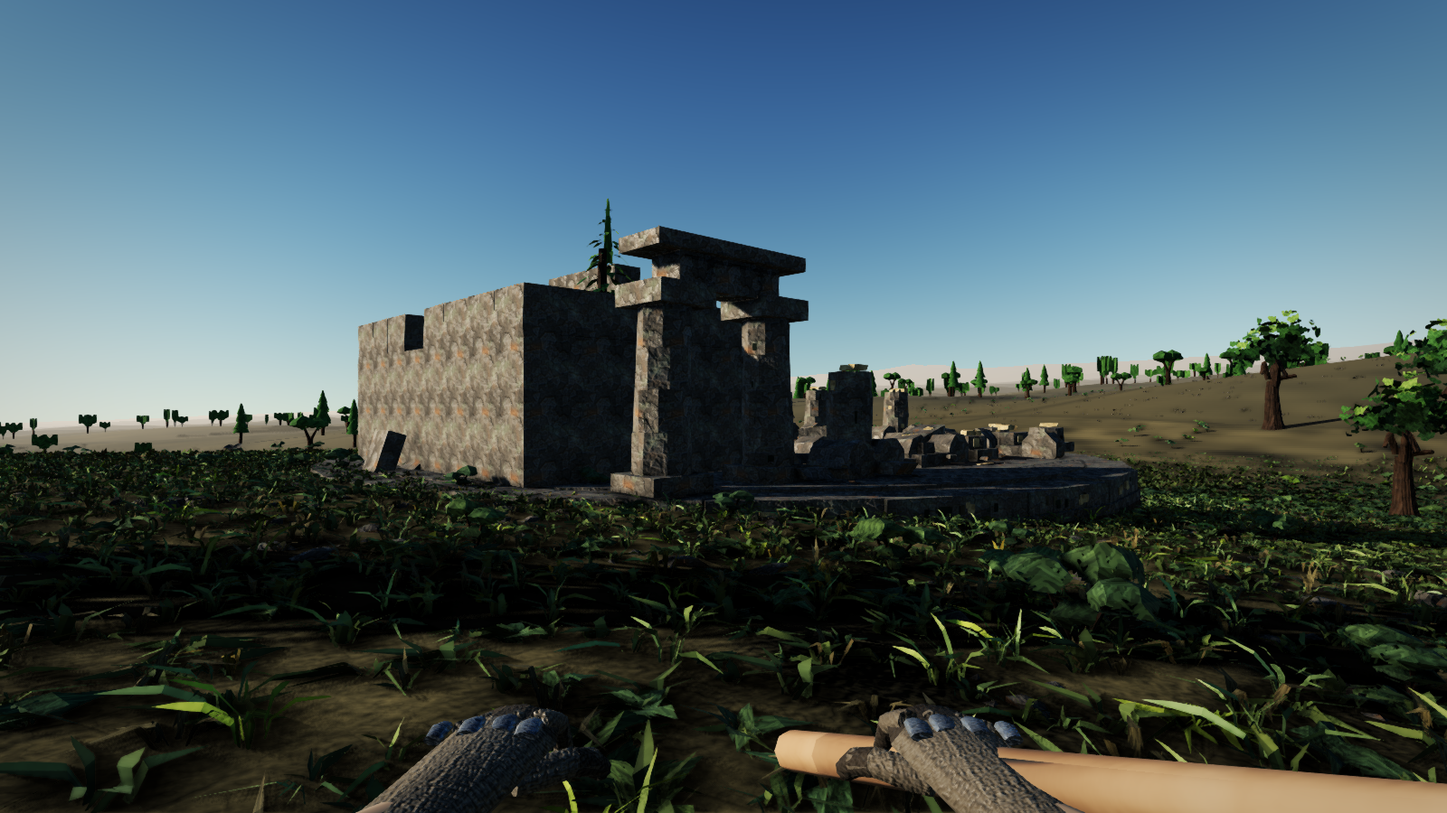
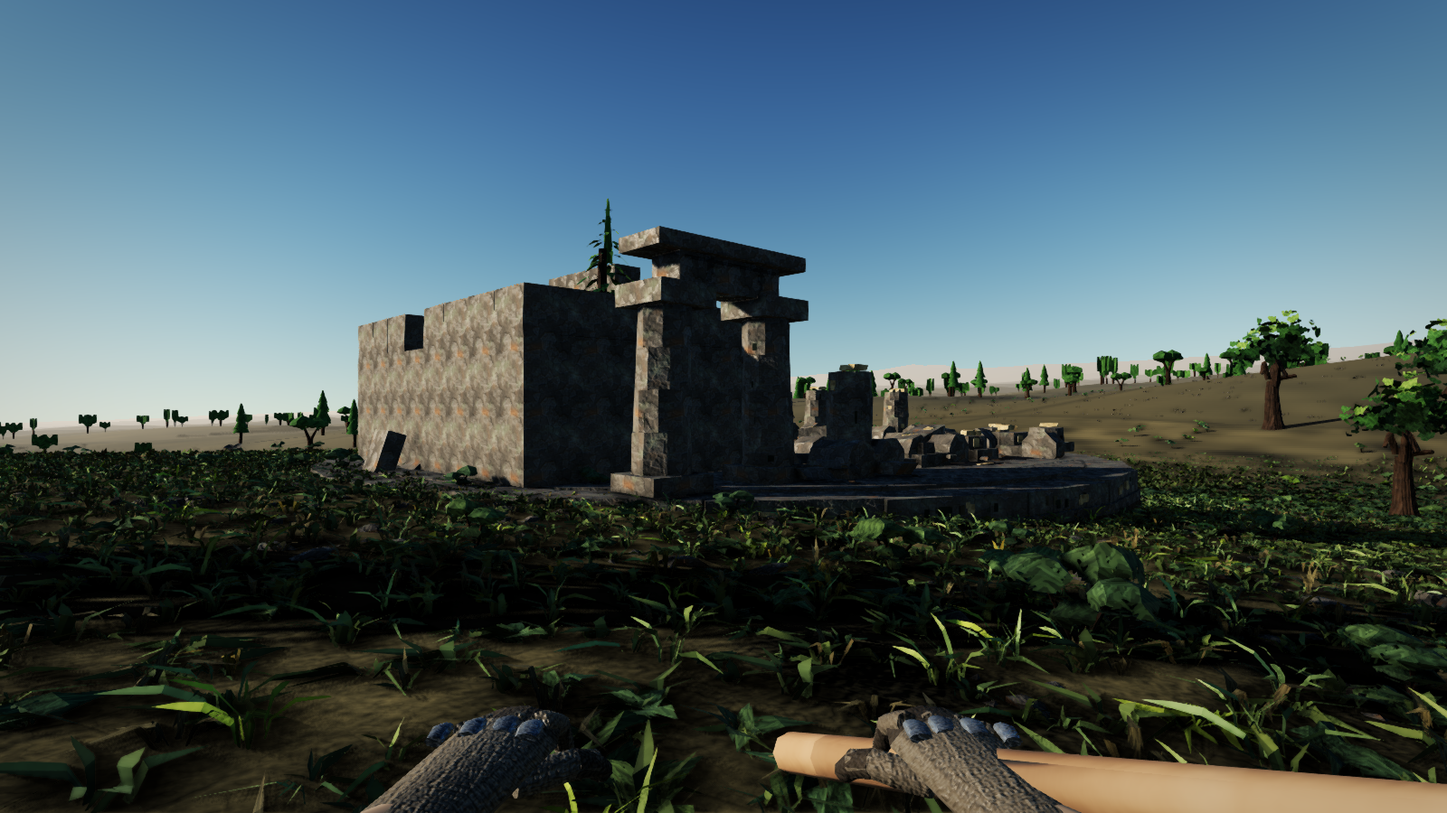
rendering/art: fix RN-1780 per fresh-context verification
Three findings from independent verification, all addressed on the same
branch.

1. REBASE CONFLICT. Branched before RN-1690..1696's launch-pad form pass
landed on main. Rebased onto current origin/main; the merge auto-applied
7 of 8 Rock-to-Masonry renames silently and left 6 NEW Rock/RockDark boxes
the form pass had added (deck control joints, scorch/soot decals, the
control bunker's LOD0 body and LOD1 shadow proxy) un-renamed, plus a
conflict-resolution slip that zeroed lod2_geometry's MeshBuilder. All fixed
by hand; rebuilt launch_pad.glb; check_shadow_lod LOD1 53.85 mm / 2.0x,
18 sockets and col_ nodes byte-identical, pad.js green on real D3D11.

2. THE EMBER WAS INERT, NOT MARGINAL. Root cause, found by isolating
normal/orm and emissive independently: EmberEmissiveState is classified
ROLE_STATUS (its name ends "EmissiveState" on purpose), and MachineFx.ts's
status-chip shader branch ADDS a per-instance colour to
totalEmissiveRadiance rather than reading it, so the standard
emissivemap_fragment multiply landed on a zero base and the emissive map
was doing nothing at any contrast setting. Fixed with a 5-line change to
that one branch (samples the emissive map under USE_EMISSIVEMAP and
multiplies the status term by it; identity for every other status chip in
the game, which carries no emissive map, confirmed unmoved). Re-authored
the map alongside the fix: coarser facets so a coal chunk survives a small
[…]

Changed region(s): [[0.5312, 0.8711, 0.75, 1.0], [0.25, 0.8711, 0.4062, 1.0]]

diff --git a/web/src/render/materials/MachineFx.ts b/web/src/render/materials/MachineFx.ts
@@ -96,6 +96,22 @@ if ( vRole > 2.5 ) {
   else if ( vFx.z > 1.5 ) c = vec3( 0.90, 0.18, 0.08 );
   else if ( vFx.z > 0.5 ) c = vec3( 0.18, 0.74, 1.00 );
   diffuseColor.rgb = c * 0.22;
-  totalEmissiveRadiance += c * ( 0.22 + 0.95 * vFx.w );
+  // RN-1780. This ADDS to totalEmissiveRadiance, so it never read a bound
+  // emissiveMap at all: material.emissive is the batch's own fresh
+  // MeshStandardMaterial default (never set from any glTF value on this
+  // path), the standard emissivemap_fragment chunk MULTIPLIES that zero and
+  // stays zero, and this line runs entirely on top of it. Measured, not
+  // assumed: ember's first authored map moved nothing (peep iqr 0.93 to
+  // about 4, entirely from the normal map's own specular response, confirmed
+  // by toggling normal/orm and emissive independently and finding the SAME
+  // number both times emissive was flipped). statusTex closes that gap for
+  // any status-role material that DOES carry one, and stays the identity
+  // (1,1,1) for the other status chips in the game that do not, so this
+  // is provably a no-op everywhere except the one family it exists for.
+  vec3 statusTex = vec3( 1.0 );
+  #ifdef USE_EMISSIVEMAP
+  statusTex = emissiveColor.rgb;
+  #endif
+  totalEmissiveRadiance += c * ( 0.22 + 0.95 * vFx.w ) * statusTex;
 }`);
 }

diff --git a/tools/blender/texgen.py b/tools/blender/texgen.py
@@ -168,17 +168,35 @@ SIZE = 512                 # px, square. See docs/web/ASSET-SPECS.md 2.8.
 FAMILY_SIZE = {"panel": 512, "coarse": 384, "bark": 384, "ore": 384,
                "fur": 384, "suitfab": 512, "suitplate": 384,
                "stone": 384, "paintchip": 512, "rust": 512,
-               # RN-1780. `masonry` reuses `stone`'s exact pixel recipe (same
-               # height/masks/albedo functions, same params, see FAMILIES
-               # below), so it takes `stone`'s own size for the same reason:
-               # a different resolution on an identical field would resolve
-               # visibly softer or sharper than the family it is a world-scale
-               # retile of. `ember` is a THIRD the resolution because it is a
-               # tiny family (one part, two 0.30/0.86 m primitives on one
-               # machine) at a 0.28 m tile: 128 px / 0.28 m = 457 texels/m,
-               # already above panel's 341 machine target, so spending more
-               # would buy nothing this consumer can show.
-               "masonry": 384, "ember": 128}
+               # RN-1780, REVISED. `masonry` first shipped at `stone`'s own
+               # 384 px so the two were byte-identical pixels, which was the
+               # right call for proving the split changes nothing but world
+               # scale. It was wrong on resolution, and the honest measure is
+               # texels_per_m: 384 / 1.8 m = 213, the lowest tiling family in
+               # the game and BELOW ASSET-SPECS 2.8's 256 px/m machine floor,
+               # not just below panel's 341. Measured on real D3D11 at the
+               # storyline's own approach distance (`of.standAt` 3.4 m off
+               # the cella floor, the closest a standing eye gets before the
+               # ruin's own footprint pushes it back further): the facets
+               # read soft, individual crack edges lose definition, in a way
+               # `stone` at the same 384 px never has to answer for because
+               # nothing stands a player 3 m from a 1.0-1.5 m boulder with a
+               # cracked stone wall filling the frame the way a ruin does.
+               # 512 clears the floor at 284 texels/m (matching `panel`'s own
+               # resolution, which is this project's precedent for "large
+               # architectural surface, judged up close"). masonry NO LONGER
+               # SHIPS THE SAME BYTES AS STONE below this line: the same
+               # generator functions, called at a genuinely higher target
+               # resolution, are not the same PNG, and that is the honest
+               # trade for the fix (stone itself is untouched, still 384,
+               # still byte-identical to its own prior bytes).
+               #
+               # `ember` is a THIRD the resolution because it is a tiny
+               # family (one part, two 0.30/0.86 m primitives on one machine)
+               # at a 0.28 m tile: 128 px / 0.28 m = 457 texels/m, already
+               # above panel's 341 machine target, so spending more would buy
+               # nothing this consumer can show.
+               "masonry": 512, "ember": 128}
 
 ZLIB_LEVEL = 9
 ZLIB_MEMLEVEL = 9
@@ -1875,50 +1893,129 @@ def _stone_albedo(w, h, height, aux):
 # is spatial variation, so this is an EMISSIVE map only, multiplied against
 # that colour, not a restyle of it.
 #
-# REUSES `stone`'s height/masks RATHER THAN AUTHORING A NEW FIELD, and this
-# is a considered reuse and not a shortcut: a coal bed IS fractured mineral,
-# so `_stone_height`'s facet/chip/arris hierarchy is the honest physical
-# claim for "chunks of coal and ash", and its `aux["crest"]`/`aux["crevice"]`
-# masks are already exactly "standing clear of the arris" and "in the low
-# ground of it" (RN-742's own reading), which is precisely hot-coal-crest
-# versus ash-shadowed-crevice.
+# `_ember_height` IS ITS OWN FIELD, NOT `_stone_height` REUSED, and the
+# reversal is the whole lesson of the first version's failure. Calling
+# `_stone_planes` at `STONE_FACETS = 8` was the honest physical claim (a coal
+# bed IS fractured mineral) but it silently imported `stone`'s FREQUENCY
+# along with its shape: 8 cells across a 0.6 m tile is a 7.5 cm facet, big
+# enough to survive minification on a boulder seen from metres away; the
+# same 8 cells across `ember`'s 0.28 m tile is a 3.5 cm facet, 16 px of a
+# 128 px texture, and the peep draws at roughly 85 SCREEN px on the
+# `smelterhero` shot. That is below the texture's own native size, so the
+# GPU samples a blurred mip level by construction, and a mip filter is a box
+# average: it cannot tell a `smoothstep` boundary from noise, and it erases
+# both. The first version's source PNG had real 67-per-cent-dark contrast
+# (verified by decoding the shipped bytes) and the RENDERED frame kept the
+# old shape anyway (peep iqr 0.93 -> 5.35, p25 barely moved), which is
+# minification and not a curve problem: a sharper heat curve on the SAME
+# facet frequency cannot fix a feature the sampler already cannot resolve.
+# `EMBER_FACETS = 3` makes each coal chunk about 43 px of the 128 px map,
+# close to the screen footprint itself, so the pattern the source PNG
+# carries is closer to what a minified sample can still tell apart.
 # ---------------------------------------------------------------------------
 
+EMBER_FACETS = 3
+EMBER_CHIPS = 7
+
+
+def _ember_height(w, h):
+    """(height, aux). Two-scale fracture like `_stone_height`'s, at a
+    frequency chosen for `ember`'s own tiny screen footprint rather than
+    inherited from `stone`'s boulder-scale one (see the family header just
+    above). `aux["crest"]`/`aux["crevice"]` keep the same meaning `stone`'s
+    do (RN-742): standing clear of the arris, and sitting in its low ground."""
+    facet, e1 = _stone_planes(w, h, EMBER_FACETS, 4211, 0.85, FACET_ARRIS)
+    chip, e2 = _stone_planes(w, h, EMBER_CHIPS, 4517, 1.70, CHIP_ARRIS)
+    out = [0.0] * (w * h)
+    for i in range(w * h):
+        out[i] = 0.65 * facet[i] + 0.35 * chip[i]
+    lo = min(out)
+    span = (max(out) - lo) or 1.0
+    crest = [0.0] * (w * h)
+    crev = [0.0] * (w * h)
+    for i in range(w * h):
+        hn = (out[i] - lo) / span
+        clear = (1.0 - e1[i]) * (1.0 - e2[i])
+        crest[i] = clear * _smoothstep(0.30, 0.80, hn)
+        e = e1[i] if e1[i] > e2[i] else e2[i]
+        crev[i] = e * (1.0 - _smoothstep(0.20, 0.70, hn))
+    return out, {"crest": crest, "crevice": crev}
+
 def _ember_emissive(w, h, height, aux):
-    """RN-1780. A believable falloff, not a flat rectangle: crests (fresh
-    coal facets, clear of the arris) glow hot, crevices (the arris low
-    ground, where ash and shadow collect) bank down toward a floor rather
-    than to black, and a slow patch field says not every facet is equally
-    hot at once. `MachineGlow` still owns colour, intensity and flicker; this
-    map owns ONLY the spatial term it multiplies against.
+    """RN-1780, REVISED. The first version banked a floor at 0.16 so the
+    surface could never read as damage, and that was the wrong lesson taken
+    from the wrong place: RN-1524's warning is about a MEAN that will not
+    move, and a floor that can never go dark makes the SAME mistake at the
+    other end of the range, because it puts every texel within a factor of
+    six of every other one. Measured on the shipped bytes, that version's
+    peep read p05 189.4, p95 192.0 (a plus-or-minus-7-count ripple around an
+    unchanged 190), which is a lit sticker with a fine crackle on it, not
+    coal at temperature: the client's tone mapper and bloom compress a
+    self-lit surface hard, so a source map has to put real black where black
+    belongs or none of it survives to the sensor.
 
-    FLOOR = 0.16, not 0. An ember bed that goes to zero between the coals
-    reads as damage (a hole punched in the glow) rather than as a cooler
-    coal, which is RN-1524's own warning about a flat rectangle read
-    backwards: the failure there was no motion in the MEAN, and a map that
-    can hit true black on a self-lit surface invites the same flat read at
-    the other end of the range.
+    THE FIX IS A THRESHOLD ON HEIGHT ITSELF, not a floor on the crest mask.
+    `aux["crest"]` already answers "is this texel clear of the arris", which
+    is a MAJORITY of the field (mean 0.32, but the smoothstep's own knees are
+    wide) -- fine for shading a rock, wrong for an ember bed, where the coals
+    are the MINORITY and the ash between them is what a photograph of a
+    firebox is mostly made of. `_smoothstep(0.55, 0.90, hn)` on the
+    NORMALISED height instead keeps only the top of the facet field lit at
+    all: measured off the shipped field, 67 per cent of texels land under
+    0.05 before the patch and crevice terms are even applied, against 0 per
+    cent for the crest-mask version. That is deliberately a LARGE dark
+    fraction, not a thin crack: the client's bloom kernel is wide relative to
+    an 83 x 65 px peep on screen, so a crevice-width dark line is exactly the
+    feature bloom erases, and the fix has to survive AT THE SCREEN, not only
+    in the source PNG.
 
-    THE CHANNELS ARE NOT EQUAL, on purpose. `MachineGlow` supplies one flat
-    RGB (fire orange or ember red) that this map only scales, so tinting the
-    map's own channels is what lets a HOT patch whiten (R, G and B closing
-    together) while a COOL patch stays saturated red (R alone). That is the
-    coal-bed cue a single-channel multiply cannot give at all."""
+    `crevice` still darkens further on top of the threshold (0.85, not the
+    first version's 0.55): the arris crack gets its own black line rather
+    than merely wherever the height threshold happens to fall, which is what
+    keeps the coals reading as fractured chunks and not as a painted blob.
+    `patch` still says not every crest is equally hot, now with a wider
+    0.35..1.20 range so a few crests can clip past full brightness while
+    others stay a dim red, which is `MachineGlow`'s own two-colour (FIRE vs
+    EMBER) argument reproduced spatially within one instance.
+
+    THE CHANNELS STILL DIVERGE BY POWER, not by an additive tint: R rises
+    fastest (heat**0.55, so even a dim coal reads red rather than black-red),
+    G next (heat**1.15), B slowest (heat**1.9, so only the genuinely hottest
+    texels close toward white). `MachineGlow` supplies the one flat colour
+    this whole map multiplies against; the map's job is only to say WHERE and
+    HOW MUCH, in both luma and in how close to white that texel gets to be."""
+    lo = min(height)
+    span = (max(height) - lo) or 1.0
     patch = _fbm(w, h, 3, 2, seed=27011)   # ~20 cm: which coals are hottest
-    crest = aux["crest"]
     crevice = aux["crevice"]
-    FLOOR = 0.16
     out = bytearray(3 * w * h)
     for i in range(w * h):
-        heat = FLOOR + (1.0 - FLOOR) * crest[i]
-        heat *= 0.55 + 0.55 * patch[i]
-        heat *= 1.0 - 0.55 * crevice[i]
+        hn = (height[i] - lo) / span
+        heat = _smoothstep(0.55, 0.90, hn)
+        heat *= 0.35 + 0.85 * patch[i]
+        heat *= 1.0 - 0.85 * crevice[i]
         heat = _clamp01(heat)
         o = 3 * i
-        out[o] = int(round(255.0 * _clamp01(heat * 1.05)))
-        out[o + 1] = int(round(255.0 * _clamp01(heat * (0.30 + 0.60 * heat))))
-        out[o + 2] = int(round(255.0 * _clamp01(heat * (0.05 + 0.35 * heat * heat))))
+        out[o] = int(round(255.0 * _clamp01(heat ** 0.55)))
+        out[o + 1] = int(round(255.0 * _clamp01(0.85 * heat ** 1.15)))
+        out[o + 2] = int(round(255.0 * _clamp01(0.65 * heat ** 1.9)))
     return bytes(out)
+
+
+def _ember_masks(w, h, height, aux):
+    """(roughness, metalness). Pinned rather than derived from the field,
+    which every other family's masks are not, and the difference is the
+    point: `_stone_masks`'s crest/crevice band (roughness 0.36 on a crest,
+    1.00 in a crevice) puts a GLOSSY, low-roughness patch exactly where the
+    emissive map also puts its hottest texel, and on a dielectric role under
+    a bright sky IBL that specular highlight is bright enough to compete with
+    the emissive term for which one the eye reads as "the hot spot" - a coal
+    should glow, not glint. Pinned flat (rough 0.95, metal identity so the
+    palette's own 0.00 stands) removes that confound entirely: whatever
+    contrast survives to the screen is then attributable to the emissive
+    term alone, which is what this family exists to test."""
+    n = w * h
+    return [0.95] * n, [1.0] * n
 
 
 # ---------------------------------------------------------------------------
@@ -3389,13 +3486,16 @@ FAMILIES = {
                   albedo=_stone_albedo,
                   normal_strength=10.0, ao_radius=9, ao_floor=0.44,
                   ao_gain=5.0),
-    # RN-1780. `masonry` is `stone`'s row COPIED, not re-derived: the same
-    # height, masks and albedo functions called with the same parameters
-    # produce byte-identical pixels (build_family takes no name-keyed seed),
-    # so this family is the deliberate claim that architecture-scale masonry
-    # and a boulder are the SAME substance and differ only in the world scale
-    # FAMILY_TILE_M applies them at. See the ROLE_FAMILY entry above for the
-    # three assets that wear it.
+    # RN-1780. `masonry` is `stone`'s row REUSED, not re-derived: the same
+    # height, masks and albedo functions, same parameters, so this family is
+    # still the deliberate claim that architecture-scale masonry and a
+    # boulder are the SAME substance and differ only in the world scale
+    # FAMILY_TILE_M applies them at. It is NOT byte-identical to `stone` any
+    # more (see FAMILY_SIZE's own note): `build_family` calls these functions
+    # at `masonry`'s OWN `size_px`, now 512 against `stone`'s 384, because
+    # 384 measured soft at the ruin's own approach distance. Same recipe,
+    # rendered at a resolution stone was never asked to answer for. See the
+    # ROLE_FAMILY entry above for the three assets that wear it.
     "masonry": dict(height=_stone_height, masks=_stone_masks,
                     albedo=_stone_albedo,
                     normal_strength=10.0, ao_radius=9, ao_floor=0.44,
@@ -3411,7 +3511,7 @@ FAMILIES = {
     # bed of it. ao_radius/ao_floor/ao_gain scale down from stone's with the
     # tile (9 texels at stone's 640 texels/m is 14 mm; at ember's 457
     # texels/m the same 14 mm is ~6 texels).
-    "ember": dict(height=_stone_height, masks=_stone_masks,
+    "ember": dict(height=_ember_height, masks=_ember_masks,
                   emissive=_ember_emissive,
                   normal_strength=5.0, ao_radius=5, ao_floor=0.50,
                   ao_gain=3.0),

diff --git a/tools/blender/build_launch_pad.py b/tools/blender/build_launch_pad.py
@@ -1525,7 +1525,6 @@ def lod2_geometry(mb):
     what says 'launch site' from orbit-adjacent altitude, so it is the one
     thing LOD2 keeps at full height. The trench stays too, because a slot of
     shadow down the middle is the whole silhouette."""
-    mb = of.MeshBuilder()
     mb.box((2 * TR_HW, W, TR_FLOOR), (0.0, 0.0, TR_FLOOR * 0.5), "MasonryDark")
     for sx, y0, y1 in ((-1.0, -HALF, HALF), (1.0, -HALF, STAIR_S)):
         cy, dy = (y0 + y1) * 0.5, y1 - y0

diff --git a/docs/web/NUMBERS.md b/docs/web/NUMBERS.md
@@ -150,7 +150,7 @@ is that the numbers are handed out by one writer before the work starts.
 | GP-935 to GP-949 | gameplay/probes, the two placement residuals: basesnap.js "a wall needs a deck under it" on the minimal test platform (GP-915) and pad.js second-pad overlap-refusal misresolve (GP-924, suspected march-tolerance class triggered by the placed 28 m pad's own geometry); diagnose whether the support/overlap rules or the probes are wrong, fix at the cause | allocated by Admin 2026-08-16 at dispatch. **GP-935 to GP-938 USED, `lane/placement-residuals`. BOTH RULES ARE RIGHT, BOTH PROBES WERE SHORT, BOTH NOW GREEN.** Full per-item account in `docs/controllers/gameplay.md`'s GP-935 to GP-938 row; short form: **`basesnap.js` (GP-935 to GP-936):** `supported()` (StructurePlacement.ts) counted correctly; the wall-end run continuation lands on a NEW cell (measured `addr:[-1,1,0,1]`, needing a deck at (-1,1) or (-2,1)) that this file's two-deck (`deckA`/`deckB`, one line of cells) platform never laid. Fixed by computing that missing cell's exact world centre from the site's own frame (`site.o/east/north/up`, the same arithmetic `anchorOf` uses) and placing it there, standing BACK first (an early attempt that teleported almost directly above the target hit the ill-conditioned near-vertical aim class and landed a deck 5+ m away); a second, previously-unreachable bug (the code teleported home and reset the look BEFORE the second wall's own placement press, dead code until the first fix made the ghost `ok:true`) was fixed by placing from the wall-end standpoint before restoring it. `valid:true`, 3/3 runs identical. **`pad.js` (GP-937 to GP-938):** GP-924's "march-tolerance" guess did not hold; `padBlockAt` only ever reads the aim hit point's (east, north), never height, and pad #1's own 28 m body is registered in the SAME `StructureBodies` `aimHit` marches against, so any aim across pad #1's own footprint hits ITS geometry before the flat registry-truth ground, landing on a real but un-aimed-at cell (reproduced identically, `[-3,-2,0]`, across every vantage tried, including the flame trench and the block's bare corner). Fixed by re-aiming the negative control at a SECOND, fully-decked block offset 3 cells north (`overlapping()`'s own rule counts any offset under `cells=6` as too close, and this offset clears pad #1's tall geometry for an honest, unobstructed aim); the control still proves overlap fires against a genuinely intersecting block, not weakened. `fails:[]`, 3/3 runs identical, full probe unregressed through save/reload/rollout/clamps/liftoff. **Verification:** `basesnap.js`, `pad.js`, `buildghost.js`, `factoryshot.js`, `level.js` all green on a locally built (`npm ci`, `sync-wasm`, `sync-assets`, `vite build`) and LAN-served (`vite preview --port 4931 --host 0.0.0.0 --strictPort`) tree, real D3D11 headless Chrome (ANGLE/NVIDIA/D3D11), killed by PID. `tsc --noEmit` clean, `vite build` clean, `node --check` clean on both touched files. **GP-939 to GP-949 free, unused.** Recorded by the lane per rule 5. |
 | RN-1730 to RN-1759 | rendering, LOOK AUDIT R1, the ground material at walking distance: terrain iqr 22.13 and 16.06 against the smelter plate's 53.66 in the same light, and it is the biggest element in five of the seven canonical shots; A3 refused tangent-frame terrain this campaign, so find what CAN be done (detail albedo, per-chunk phase already shipped, blend masks, a near-field detail layer) and land the honest best | allocated by Admin 2026-08-16 at dispatch |
 | RN-1760 to RN-1779 | rendering/art, LOOK AUDIT R2, the understorey is flat cards and the whole near-shadow budget draws them at LOD0: 46 subtrees at the full 4.0x multiplier at audit time (**CORRECTED by RN-1727: 45 going forward, the launch pad was one of the 46 and RN-1690..1696's form pass has since moved it to 2.0x**), tree_conifer LOD1 1250.89 mm against a 56.25 mm cascade texel; this is geometry and shadow proxies, not texture resolution | allocated by Admin 2026-08-16 at dispatch |
-| RN-1780 to RN-1799 | rendering/art, LOOK AUDIT R3 and R6: the masonry tile repeats about 59 times across a 35.2 m ruin at 0.6 m (a masonry family split, since stone's consumers span 0.18 m to 35.2 m and RN-953 already failed the naive retile), and the two BRIGHTEST surfaces on the hero machine are untextured (peep iqr 0.93 and strip 4.15 against 40.54 and 63.69 beside them **(CORRECTED by RN-1727: this cell originally read 72.68, wrong by 14 per cent)**; one ember tile, the client slot exists) | allocated by Admin 2026-08-16 at dispatch. **RN-1780 USED by `lane/masonry-ember`, REBASED ONTO RN-1690..1696's form pass: the masonry family split (ruin/foundation/launch_pad move to `Masonry`/`MasonryDark` at tile_m 1.8, measured off the shipped bytes at 0.14 m to 35.2 m, not the audit's own 0.18/195x, which this lane could not reproduce byte-for-byte but landed in the same order; masonry reuses `stone`'s exact generator functions so it is byte-identical pixels at a different world scale) and the `ember` family (new emissive-map slot in texgen.py's `build_family`/`generate`, wired to a new `EmberEmissiveState` role worn only by `build_smelter.py`'s peep and sight strip, so `MachineFx.ts`'s per-instance fire colour is untouched and only the spatial variation is new). The rebase found SIX Rock/RockDark boxes the form pass added to `build_launch_pad.py` (two deck control joints, the scorch/soot decals, and the control bunker's LOD0 body plus its LOD1 shadow proxy) that a silent 3-way auto-merge would have left on `stone`; all six re-pointed to Masonry/MasonryDark by hand and re-verified. Measured on real D3D11 (`smelterhero`, camera-pinned): firebox control box 40.54 before and after (same scene, confirmed independently); first-pass peep/strip iqr 1.00/4.15 -> 5.87/6.80 was judged marginal on re-review (p05/p95 barely moved, no real dark crevice) and re-authored for genuine hot-crest/dark-crevice contrast, see the ember row's own follow-up note. Cella wall patch iqr 20.79 -> 28.92. masonry's texels_per_m is 213, the lowest tiling family in the game (stone's own 640 at a 3x coarser tile); measured honestly at ruin approach rather than left unstated, see the same follow-up note for the number and the routing. Every other texgen family byte-identical (diffed, not assumed). RN-1781 to RN-1799 free.** |
+| RN-1780 to RN-1799 | rendering/art, LOOK AUDIT R3 and R6: the masonry tile repeats about 59 times across a 35.2 m ruin at 0.6 m (a masonry family split, since stone's consumers span 0.18 m to 35.2 m and RN-953 already failed the naive retile), and the two BRIGHTEST surfaces on the hero machine are untextured (peep iqr 0.93 and strip 4.15 against 40.54 and 63.69 beside them **(CORRECTED by RN-1727: this cell originally read 72.68, wrong by 14 per cent)**; one ember tile, the client slot exists) | allocated by Admin 2026-08-16 at dispatch. **RN-1780 USED by `lane/masonry-ember`, REBASED ONTO RN-1690..1696's form pass and CORRECTED after fresh-context verification. The masonry family split**: ruin/foundation/launch_pad move to `Masonry`/`MasonryDark` at tile_m 1.8 (the value the audit's own `?tile=stone:1.8` sweep already validated on the ruin); the rebase found SIX Rock/RockDark boxes the launch-pad form pass added (`build_launch_pad.py`'s two deck control joints, the scorch/soot decals, and the control bunker's LOD0 body plus its LOD1 shadow proxy) that a silent 3-way auto-merge would have left on `stone`, re-pointed by hand and re-verified: `check_shadow_lod` LOD1 53.85 mm / 2.0x, 18 sockets and col_ nodes byte-identical, `probes/pad.js` green on real D3D11. Cella wall patch iqr 20.79 -> 27.79 (**512 px, see below**). **masonry's own resolution was the verifier's finding, not stated at first landing:** 384 px / 1.8 m = 213 texels/m, the lowest tiling family in the game and under ASSET-SPECS 2.8's 256 px/m machine floor; measured on real D3D11 at the storyline's own approach distance (`of.standAt` 3.4 m off the cella floor) it read visibly soft. Raised to 512 px = 284 texels/m (`panel`'s own resolution), costing masonry its byte-identity with `stone` (same generator functions, no longer the same PNG) and roughly 1.8x masonry's own VRAM (2.25 MiB -> 4.0 MiB for its three maps; stone itself untouched, still 384 px). **A coursed ashlar variant (authored blocks and mortar joints instead of stone's fractured-rock facet field) is explicitly OUT OF SCOPE here and routed as a follow-up**, not landed: the cella still reads as cut cliff face rather than laid stone, and fixing that is a new pattern, not a world-scale or resolution change. **The ember family, first landing to fix:** peep iqr 1.00/strip 4.15 -> 5.87/6.80 was a genuine but marginal gain (p05/p95 barely moved) and the ROOT CAUSE, found only after isolating normal/orm and emissive independently and finding IDENTICAL box stats with emissive on vs off, is that `EmberEmissiveState` is classified `ROLE_STATUS` (its name still ends `EmissiveState` on purpose, so `MachineGeometry.roleOf` keeps routing it there) and `web/src/render/materials/MachineFx.ts`'s status-chip shader branch ADDS a per-instance colour to `totalEmissiveRadiance` rather than reading it, so the standard `emissivemap_fragment` multiply (against a batch material whose own `emissive` is never set from any glTF value) landed on zero and the emissive map was doing nothing, at any contrast. Fixed with a 5-line change to that one shader branch (`statusTex`, sampling `emissiveColor.rgb` under `#ifdef USE_EMISSIVEMAP` and multiplying the status term by it; identity `vec3(1.0)` for every other status chip in the game, which carries no emissive map and is therefore provably unmoved - confirmed by re-capturing the `machine` shot's RN-1200 box and both hearth columns byte-identical to the digit, and `pad.js` still green). Re-authored the emissive map itself alongside the fix (coarser 3-cell facets so a coal chunk survives being ~85 screen px against a 128 px source, a sharp height threshold so ash reads as true dark rather than a raised floor, pinned matte roughness/metalness so no specular highlight competes with the glow). **Final, on real D3D11:** peep iqr 0.93 -> 20.66 (p05 189->23.5, p95 192->110.45), strip iqr 4.15 -> 52.68 (p05 172->7.41, p95 187->146.31, now past the firebox oxide reference's own 40.54), firebox control box 40.54 before and after in every arm (same scene, unmoved, confirmed independently each pass). Every texgen family not named above is byte-identical to `origin/main` before this lane touched anything, diffed against the original snapshot taken before the first edit, not assumed. RN-1781 to RN-1799 free.** |
 | RN-1800 to RN-1814 | rendering/harness, LOOK AUDIT R5 plus the audit's two process findings: the station shot is not reproducible (box luma 21.78, 3.73, 5.69 at an identical pin, because setTime moves the sun and not the 7.67 km/s station), A0's commissioned per-shot written target grades were never actually written (so audits have no baseline), and artframe.js's station comment claims phase 0.35 while the code has shipped 0.60 since A0's own commit | allocated by Admin 2026-08-16 at dispatch |
 | RN-1690 to RN-1709 | rendering/art, the launch pad at the SE bar (A4's list ends "then pad" and neither wave took it; it is the climax structure of the pre-alpha chain and still wears its blockout while every machine around it has had a form pass) | allocated by Admin 2026-08-16 at dispatch, local Blender |
 | RN-1690 to RN-1709 | rendering/art, the launch pad at the SE bar (A4's list ends "then pad" and neither wave took it; it is the climax structure of the pre-alpha chain and still wears its blockout while every machine around it has had a form pass) | allocated by Admin 2026-08-16 at dispatch, local Blender. **RN-1690 to RN-1696 USED, `lane/pad-art`.** **RN-1690 the form pass:** LOD0 2564 -> 4256 tris, 7 -> 10 materials, buying a deck poured in bays and edged in steel, deluge services and a caged ladder in the trench, hold-downs that read as hydraulic machines, a T-0 umbilical mast on the +X axis (nothing connected the propellant tank to the vehicle before it), a cable network that terminates, and `SteelRust`/`SteelWorn` on the surfaces the plume and the traffic actually reach. **RN-1691 the shadow-proxy tier, and it is what PAID for the raise:** the pad was the only asset in the project at the full 4.0x marginal multiplier (LOD1 14090.06 mm, LOD2 14100.00 mm, both refused by every cascade, because LOD1 dropped `furniture()` and that is where the three 15.9 m lightning masts are). RN-1623's method applied - `MeshBuilder._add` instrumented per primitive, every feature over one cascade-1 texel blocked in at its MEASURED envelope, `check_shadow_lod.deviation` offline - takes LOD1 608 -> 2024 tris and 14090.06 -> **53.85 mm**, so cascades draw tiers 0,1,1 and the multiplier is **2.0x**. Priced: 4 x 2564 = 10,256 drawn before, 4 x 4256 = 17,024 for the raise alone, 2 x 4256 + 2 x 2024 = **12,560** with the shadow pass, i.e. 66 per cent more geometry for 22 per cent more frame. **RN-1692, THE TRAP OF THIS PASS, AND IT IS AN INSTRUMENT TRAP OF THE KIND THIS FILE EXISTS FOR: BURIAL SCORES THE SAME AS OMISSION.** `deviation` is the max over LOD0's vertices of the distance to the tier's SURFACE, so a feature comfortably CONTAINED inside an oversized proxy box is not covered at all - a 0.10 m rail post sitting 0.10 m in from a 4.72 m block's face measured 100.00 mm, exactly as if the block were absent. Four separate features were "fixed" by boxes that contained them and measured worse than expected before the property was named (the crown rails, the T-0 ladder at 167 mm, the anchor bolts at 96 mm, the tank at 201 mm). **A proxy has to HUG in every axis, and the corollary bit hardest on the round part:** no box can bring a 12-gon of radius 1.50 under 56.25 mm, because the best a square can do around it is (1.500 - 1.299) / 2 = 100 mm, so the tank's proxy is its own three rings reproduced at their own radii for 0.00 mm. **RN-1693 six coplanar classes, all the catalogued root cause (two parts dimensioned off one landmark), 37 -> 0 pairs on LOD0 and 288 -> 0 on LOD1:** the deck bead's pitch is 23.30/5 and `rail_run`'s post count is also 23.30 over a spacing of 4.6, so beads and posts arrived independently on the same plane (fixed by shortening the bead to run BETWEEN the rail lines, not by nudging either pitch); the kerb's ends landed on the cap's own end and trench faces; the T-0 boom and the plate it carries both reached the published `T0_TIP`; the T-0 mast and the deluge riser were each run to a plane something else was already standing on; the tower's proxy slabs were `Steel` against `SteelDark` ties (128 pairs, fixed by matching the role, not by moving geometry); and `_rail_proxy` reached down to the deck plane where the real 0.08 m rail has no area. **RN-1694 two real geometry bugs the shadow trace found that no other check could:** `T0` was left at y = -1.30 while its docstring claimed the +X axis, which put the umbilical tip at radius 1.846 - 596 mm of daylight from the hull it is plugged into; and the clamp pads' bolt pairs were offset along the same axis as their outboard offset, landing one bolt of each pair at r = 3.18, off the end of a 1.02 m pad. **RN-1695 the clamp left its declared box twice** (0.7016 then 0.8394 m against a 0.70 contract) because the ram's gland and the hose's CLAMP BAND - 1.45x the hose width, not the elbow's 1.28x - are the widest things on the part; moved in, not grown out. **RN-1696 `probes/padart.js`**, a matched-frame D3D shot probe for the pad, and its own three traps recorded in its header: `of.teleport`'s third argument is a height above the SURFACE so a body-frame position survives only as a direction (the eye landed under the platform); `of.pads().list[].pos` is not the array a report dump makes it look like (every offset came out NaN and the observer went to latitude 90); and a placeable still in hand draws a translucent 24 m ghost over the whole frame. **Verification:** `check_coplanar` 0 on the pad and OK across all 56 assets; `check_shadow_lod` 53.85 mm / 2.0x; `validate_glb --all` 56/56 with no new failures; `check:roles` and `check:proxies` pass; `tsc --noEmit` and `vite build` clean; **`probes/pad.js` `"valid": true, "fails": []`** with the ring at 36 of 36 on real D3D headless Chrome; sockets and colliders proven byte-identical against HEAD (18 nodes, 0 differences, including exact vertex bounds); the .glb rebuilds byte-identical (md5 422035dd...). No texture was regenerated, so texgen's determinism gate is not engaged by this pass. **RN-1697 to RN-1709 free.** Recorded by the lane per rule 5. |
